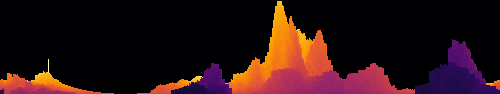
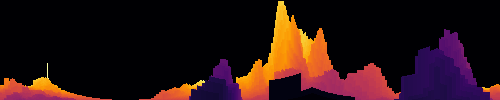
add plotting for the elevation along the route you have selected, 3rd plot panel on the right

diff --git a/gui.py b/gui.py
@@ -43,9 +43,12 @@ window.columnconfigure(0,weight=1,uniform="window") ; window.columnconfigure(1,w
 window.rowconfigure(0,weight=1,uniform="window") # one row, set weight to allow it to expand with the window
 # top vs bottom panels on the right
 frameUpper=Frame(master=frameRight) ; frameUpper.grid(row=0,column=0,sticky="NSEW")
-frameLower=Frame(master=frameRight) ; frameLower.grid(row=1,column=0,sticky="NSEW")
+frameMiddle=Frame(master=frameRight) ; frameMiddle.grid(row=1,column=0,sticky="NSEW")
+frameLower=Frame(master=frameRight) ; frameLower.grid(row=2,column=0,sticky="NSEW")
 # 4:1 ratio of height for area vs ground-view
-frameRight.rowconfigure(0,weight=2,uniform="frameR") ; frameRight.rowconfigure(1,weight=1,uniform="frameR")
+frameRight.rowconfigure(0,weight=4,uniform="frameR")
+frameRight.rowconfigure(1,weight=2,uniform="frameR")
+frameRight.rowconfigure(2,weight=1,uniform="frameR")
 frameRight.columnconfigure(0, weight=1,uniform="frameR") # one column, set weight to allow it to expand with the window
 
 # defaults. "bounds" will be read from GUI fields or text files, in format of: lat/lon of first corner, lat/lon of opposite corner
@@ -114,6 +117,8 @@ def setUpButtons():
 	label_namedArea.grid(row=3,column=0,sticky="NSEW")
 	drop=tk.OptionMenu(frameLeft, drop_spot, *[ f.split("/")[-1] for f in named_areas], command=selectNamedArea)
 	drop.grid(row=3,column=1,sticky="NSEW")
+	# CTRL+Z DELETES LAST SELECTED POINT
+	window.bind("<Control-z>",deleteLastSelectedPoint)
 
 # loads bounds from text file, updates lat/lon GUI entry fields, regenerates
 def selectNamedArea(name=None):
@@ -125,7 +130,7 @@ def selectNamedArea(name=None):
 	mark=[[0,0,''],[0,0,'']]
 	generateBoth()
 
-mapObjs={} ; viewObjs={}
+plotObjs={"map":{},"view":{},"elev":{}}
 # generates topo (updateTopoMap) and ground view (updateGroundView) based on GUI lat/lon fields
 def generateBoth(event=None,regen=True):
 
@@ -147,6 +152,7 @@ def generateBoth(event=None,regen=True):
 
 	updateTopoMap(regen=regen)
 	updateGroundView(lat=None,lon=None,regen=regen)
+	updateRouteElevationPlot()
 
 # topo map, self-explanatory, top panel of GUI
 def updateTopoMap(regen=True):
@@ -174,9 +180,9 @@ def updateTopoMap(regen=True):
 	print("updating elevation figure")
 	figsize=(figwidth,figwidth)
 	fov = None 	# infer current FOV (user can zoom and pan, so don't reset that)
-	if not regen and "ax" in mapObjs.keys():
-		fov = ( mapObjs["ax"].get_xlim(), mapObjs["ax"].get_ylim() )
-	mapObjs["fig"],mapObjs["ax"]=plt.subplots(figsize=figsize)	# new empty matplotlib figure/axes objects
+	if not regen and "ax" in plotObjs["map"].keys():
+		fov = ( plotObjs["map"]["ax"].get_xlim(), plotObjs["map"]["ax"].get_ylim() )
+	plotObjs["map"]["fig"],plotObjs["map"]["ax"]=plt.subplots(figsize=figsize)	# new empty matplotlib figure/axes objects
 	plt.imshow(elevations,cmap="inferno",aspect=1,extent=(min(lons),max(lons),min(lats),max(lats)))
 	plt.imsave("figs/topo.png",elevations,cmap="inferno")#,aspect=1,extent=(min(lons),max(lons),min(lats),max(lats)))
 	for m in mark:
@@ -193,21 +199,21 @@ def updateTopoMap(regen=True):
 		if len(route)>0:
 			lon,lat = np.asarray(route).T #; print("lon",lon,"lat",lat)
 			plt.plot(lon,lat,linewidth=1,c='w')
-	if "canvas" in mapObjs.keys():			# if this isn't the first time, destroy the old "canvas" object
-		mapObjs["canvas"].get_tk_widget().destroy()
-		mapObjs["toolbar"].destroy()
-	mapObjs["canvas"] = FigureCanvasTkAgg(mapObjs["fig"], master=frameUpper) # new canvas object to hold the figure
-	mapObjs["toolbar"] = NavigationToolbar2Tk(mapObjs["canvas"],frameUpper)	# toolbar, references the canvas
-	mapObjs["toolbar"].update()
+	if "canvas" in plotObjs["map"].keys():			# if this isn't the first time, destroy the old "canvas" object
+		plotObjs["map"]["canvas"].get_tk_widget().destroy()
+		plotObjs["map"]["toolbar"].destroy()
+	plotObjs["map"]["canvas"] = FigureCanvasTkAgg(plotObjs["map"]["fig"], master=frameUpper) # new canvas object to hold the figure
+	plotObjs["map"]["toolbar"] = NavigationToolbar2Tk(plotObjs["map"]["canvas"],frameUpper)	# toolbar, references the canvas
+	plotObjs["map"]["toolbar"].update()
 	if fov is not None:
-		mapObjs["toolbar"].push_current()
-		mapObjs["ax"].set_xlim(fov[0])
-		mapObjs["ax"].set_ylim(fov[1])
+		plotObjs["map"]["toolbar"].push_current()
+		plotObjs["map"]["ax"].set_xlim(fov[0])
+		plotObjs["map"]["ax"].set_ylim(fov[1])
 
-	mapObjs["canvas"].get_tk_widget().pack(fill='both',expand=True)
+	plotObjs["map"]["canvas"].get_tk_widget().pack(fill='both',expand=True)
 	# HANDLE CLICKS
-	mapObjs["canvas"].mpl_connect('button_press_event',viewLocationTrigger)	# link callback function to clicks
-	mapObjs["canvas"].mpl_connect('button_press_event',selectRoadTrigger) # FEATURE NOT YET FINISHED
+	plotObjs["map"]["canvas"].mpl_connect('button_press_event',viewLocationTrigger)	# link callback function to clicks
+	plotObjs["map"]["canvas"].mpl_connect('button_press_event',selectRoadTrigger) # FEATURE NOT YET FINISHED
 
 # ground view: from a given location, what would you see? ray-tracing to show what the mountains would look like. bottom panel of GUI
 def updateGroundView(lat=None,lon=None,regen=True):
@@ -229,18 +235,18 @@ def updateGroundView(lat=None,lon=None,regen=True):
 	# PLOT IT
 	print("updating ground view figure")
 	figsize=(figwidth,figwidth/4)
-	viewObjs["fig"],viewObjs["ax"]=plt.subplots(figsize=figsize)	# new empty matplotlib figure/axes objects
+	plotObjs["view"]["fig"],plotObjs["view"]["ax"]=plt.subplots(figsize=figsize)	# new empty matplotlib figure/axes objects
 	plt.imshow(distances,cmap="inferno",aspect=1,extent=(min(phis),max(phis),min(thetas),max(thetas)))
 	plt.imsave("figs/groundview.png",distances,cmap="inferno")#,aspect=1,extent=(min(phis),max(phis),min(thetas),max(thetas)))
-	if "canvas" in viewObjs.keys():		# if this isn't the first time, destroy the old "canvas" object
-		viewObjs["canvas"].get_tk_widget().destroy()
-		viewObjs["toolbar"].destroy()
-	viewObjs["canvas"] = FigureCanvasTkAgg(viewObjs["fig"], master=frameLower)# new canvas object to hold the figure
-	viewObjs["toolbar"] = NavigationToolbar2Tk(viewObjs["canvas"],frameLower)	# toolbar, references the canvas
-	viewObjs["toolbar"].update()
-	viewObjs["canvas"].get_tk_widget().pack(fill='both',expand=True)
+	if "canvas" in plotObjs["view"].keys():		# if this isn't the first time, destroy the old "canvas" object
+		plotObjs["view"]["canvas"].get_tk_widget().destroy()
+		plotObjs["view"]["toolbar"].destroy()
+	plotObjs["view"]["canvas"] = FigureCanvasTkAgg(plotObjs["view"]["fig"], master=frameMiddle)# new canvas object to hold the figure
+	plotObjs["view"]["toolbar"] = NavigationToolbar2Tk(plotObjs["view"]["canvas"],frameMiddle)	# toolbar, references the canvas
+	plotObjs["view"]["toolbar"].update()
+	plotObjs["view"]["canvas"].get_tk_widget().pack(fill='both',expand=True)
 	# HANDLE CLICKS
-	viewObjs["canvas"].mpl_connect('button_press_event',markPeakOnMapTrigger)
+	plotObjs["view"]["canvas"].mpl_connect('button_press_event',markPeakOnMapTrigger)
 
 #selectedPoints=[[-84.49479385566438, 36.10463278641103], [-84.47737315634767, 36.10851408211372], [-84.47069371723141, 36.11492273315769], [-84.46320191389832, 36.11997744384026], [-84.45832772859727, 36.12846213677172], [-84.45805694052498, 36.14055733733358], [-84.45950114357716, 36.15102780946176]]
 selectedPoints=[] # lon,lat pairs
@@ -283,7 +289,37 @@ def calculateRouteFromSelections():
 			a=a[0] ; b=b[0] # TODO WHAT ABOUT WHEN TWO PATHS MEET BACK UP? WE SHOULD FIND THE CLOSEST POINT TO p,pp
 			# as with the "two points on the same path", we infill from p,pp to p,a and then p_next,b to p_next,pp_next
 			route += lat_lon_between(p,pp,a)
+			route.append(paths[p][a]) 			# point on A closest to path B
+			if d_AB[a,b]>0:						# point on B closest to path A (if not the same point)
+				route.append(paths[p_next][b])
 			route += lat_lon_between(p_next,b,pp_next)
+
+def updateRouteElevationPlot():
+	ds = [0] ; zs = []
+	if len(route)<2:
+		return
+	from scipy.interpolate import RegularGridInterpolator
+	interp = RegularGridInterpolator((lats,lons), elevations)
+	for i,(lon,lat) in enumerate(route):
+		zs.append(interp((lat,lon)))
+		if i<len(route)-1:
+			lonn,latt = route[i+1]
+			d = srtm.utils.distance(lat,lon,latt,lonn)
+			ds.append(ds[-1]+d)
+	print("updating elevation plot")
+	figsize=(figwidth,figwidth/4)
+	plotObjs["elev"]["fig"],plotObjs["elev"]["ax"]=plt.subplots(figsize=figsize)	# new empty matplotlib figure/axes objects
+	plotObjs["elev"]["ax"].plot(ds,zs)
+	#plt.imshow(distances,cmap="inferno",aspect=1,extent=(min(phis),max(phis),min(thetas),max(thetas)))
+	#plt.imsave("figs/groundview.png",distances,cmap="inferno")#,aspect=1,extent=(min(phis),max(phis),min(thetas),max(thetas)))
+	if "canvas" in plotObjs["elev"].keys():		# if this isn't the first time, destroy the old "canvas" object
+		plotObjs["elev"]["canvas"].get_tk_widget().destroy()
+		plotObjs["elev"]["toolbar"].destroy()
+	plotObjs["elev"]["canvas"] = FigureCanvasTkAgg(plotObjs["elev"]["fig"], master=frameLower)# new canvas object to hold the figure
+	plotObjs["elev"]["toolbar"] = NavigationToolbar2Tk(plotObjs["elev"]["canvas"],frameLower)	# toolbar, references the canvas
+	plotObjs["elev"]["toolbar"].update()
+	plotObjs["elev"]["canvas"].get_tk_widget().pack(fill='both',expand=True)
+
 
 # clicking on a matplotlib plot triggers this, which updates calculated ground view or mountain-finding
 def viewLocationTrigger(event):
@@ -329,6 +365,14 @@ def selectRoadTrigger(event):
 	print(selectedPoints)
 	calculateRouteFromSelections()
 	updateTopoMap(regen=False)
+	updateRouteElevationPlot()
+
+def deleteLastSelectedPoint(event):
+	global selectedPoints
+	del selectedPoints[-1]
+	calculateRouteFromSelections()
+	updateTopoMap(regen=False)
+	updateRouteElevationPlot()
 
 # select locations on ground view plot and we'll figure out where that is on the map
 def markPeakOnMapTrigger(event):
